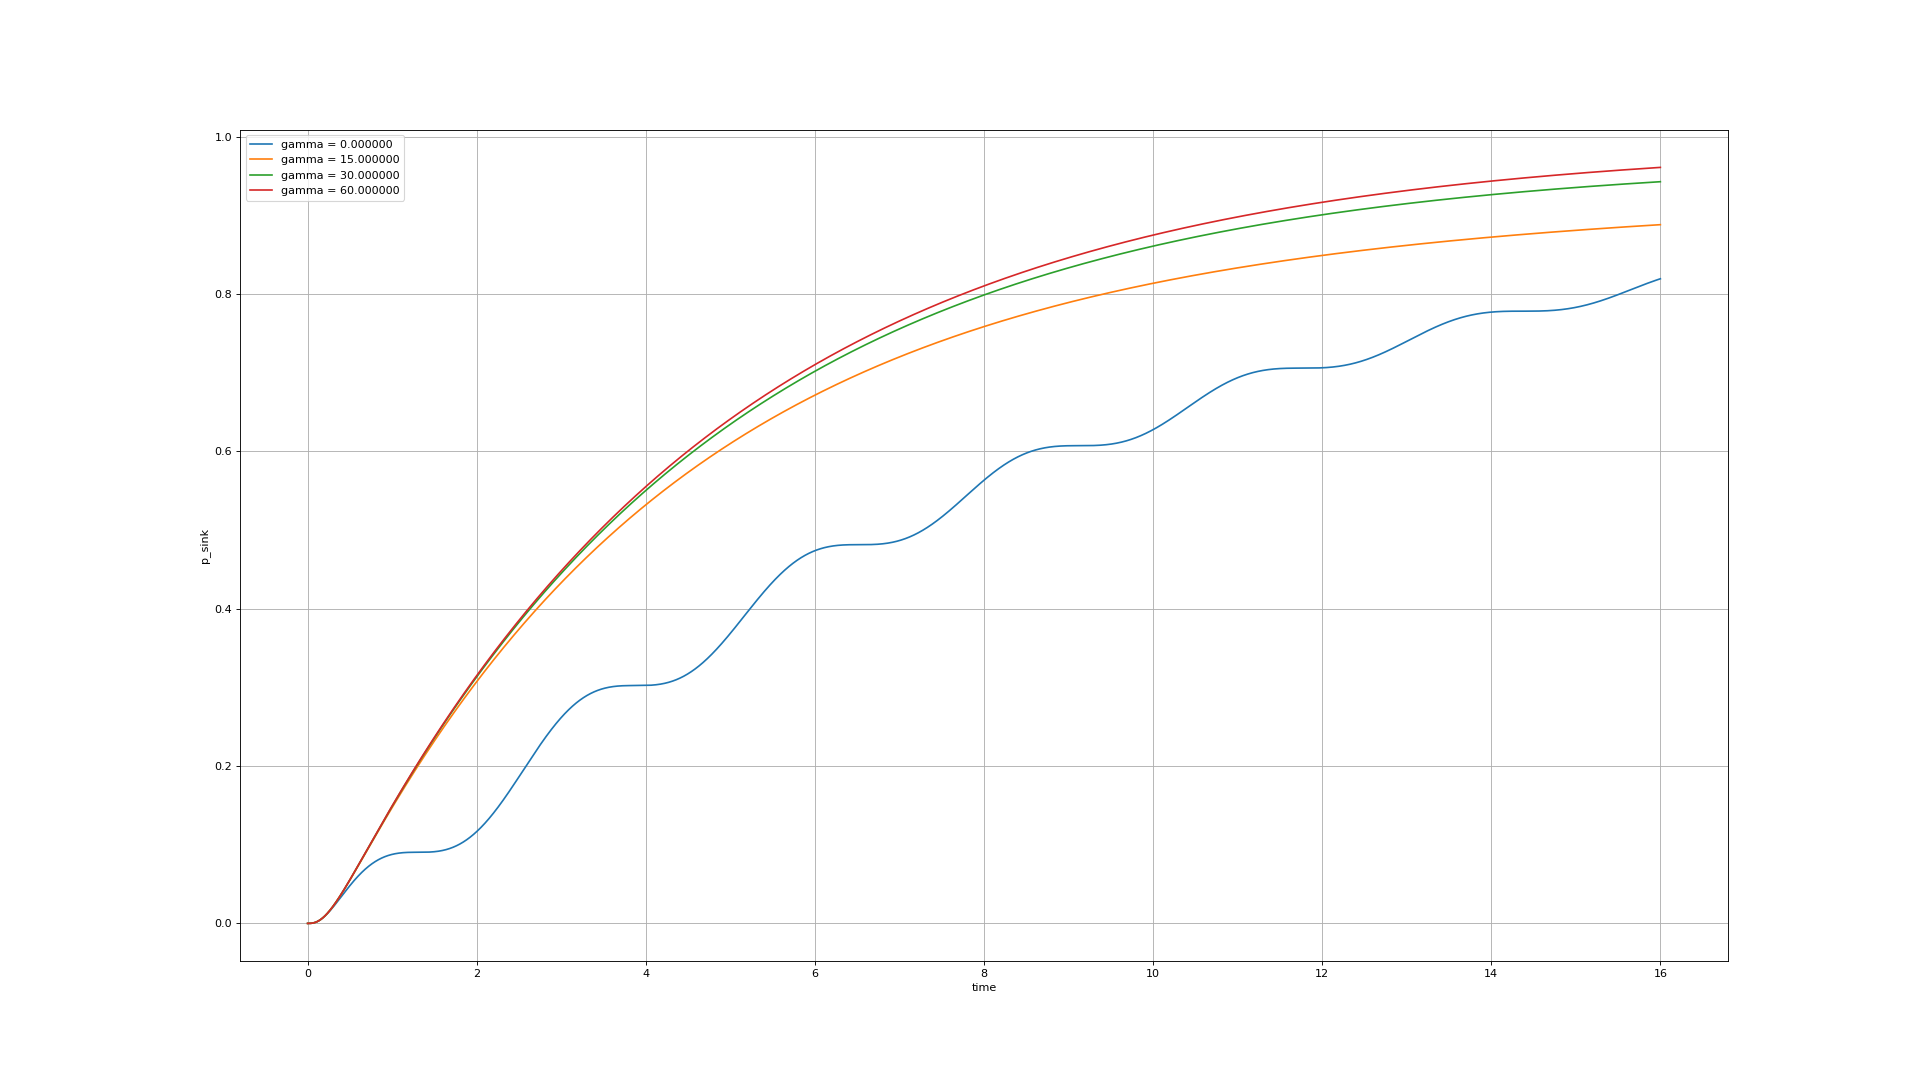
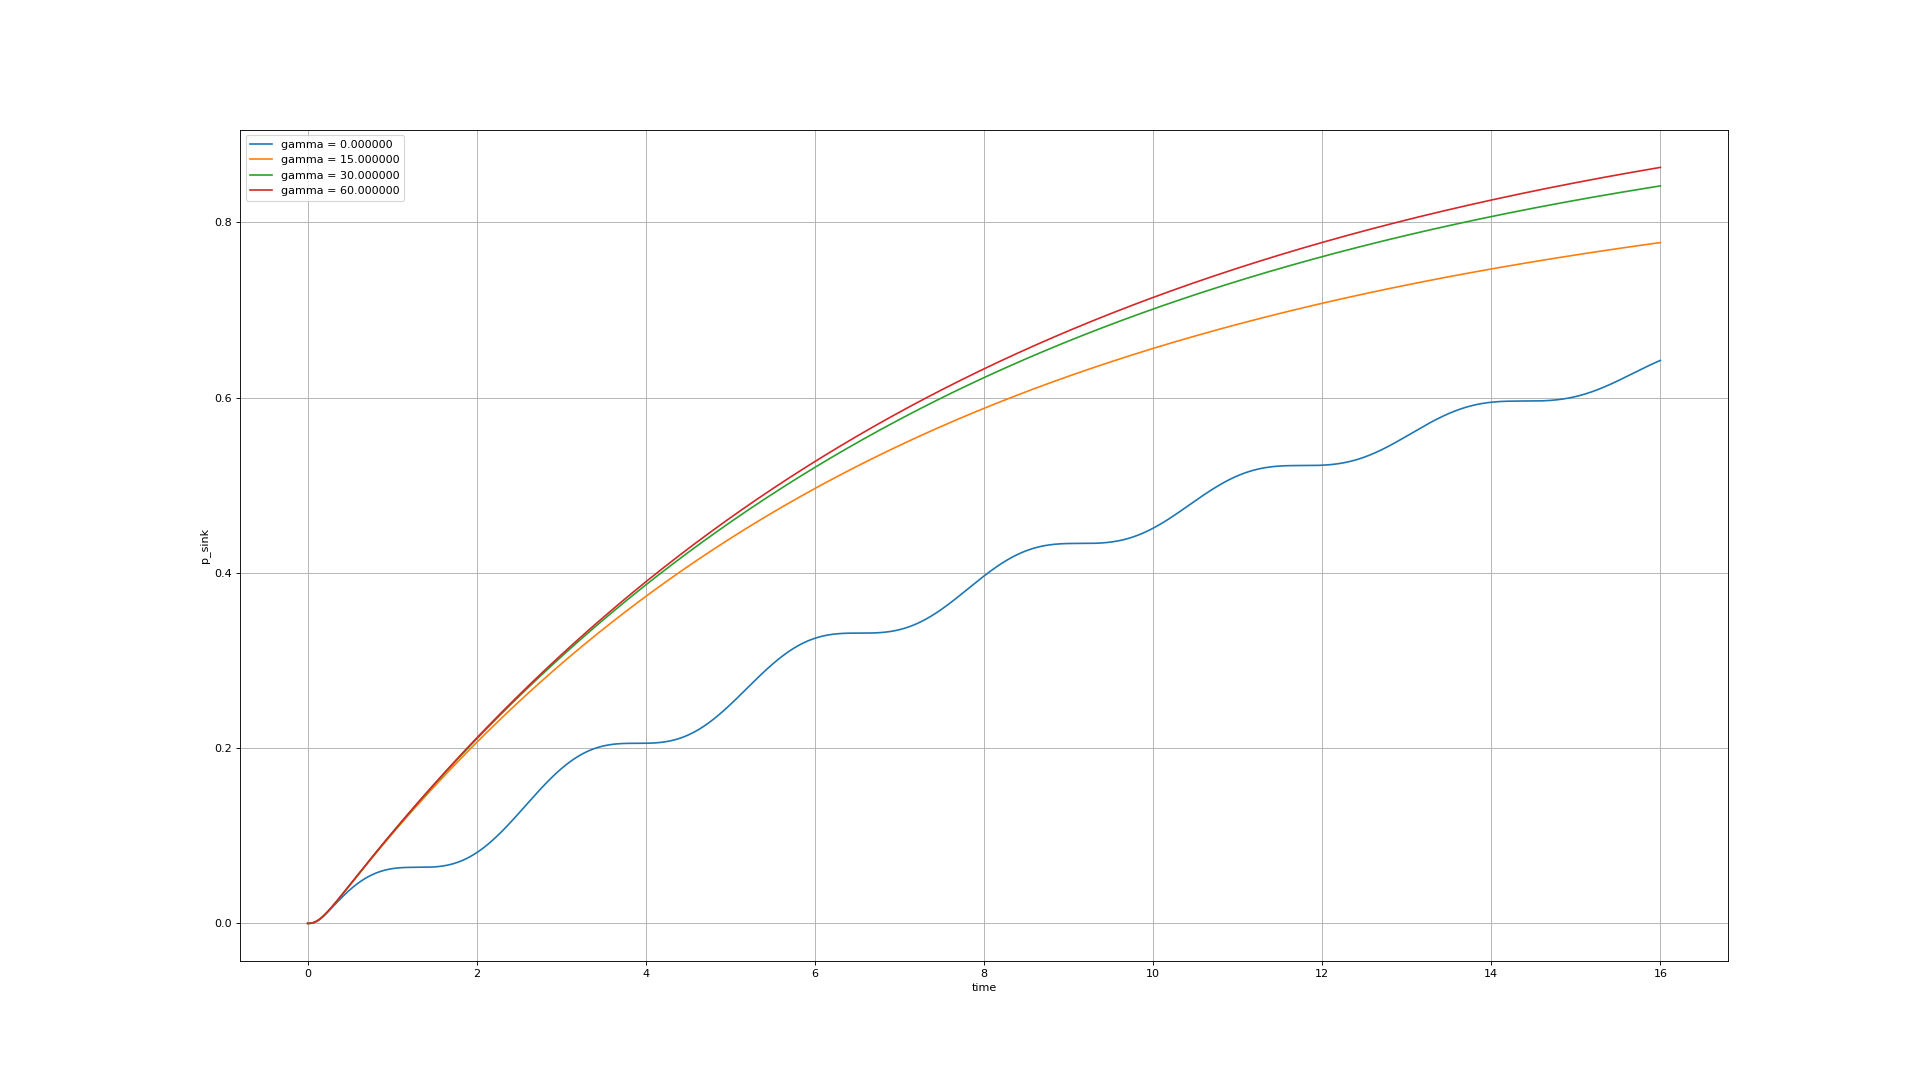
DAT

diff --git a/main/polyphony_of_cavities/polyphony_of_cavities.cpp b/main/polyphony_of_cavities/polyphony_of_cavities.cpp
@@ -13,12 +13,16 @@ int main(int argc, char** argv) {
     QConfig::instance().set_width(30);
     //QConfig::instance().set_g(0.005);
 
+    /*
     size_t grid_size = 4;
     size_t atoms_num = 2;
     int second_pol = 3;
     std::vector<size_t> grid_config(grid_size, 0);
     grid_config[0] = atoms_num;
     grid_config[second_pol] = atoms_num;
+    */
+
+    std::vector<size_t> grid_config = {1, 1, 1};
 
     /*
     for (size_t i = 0; i < grid_size; i++) {
@@ -30,11 +34,11 @@ int main(int argc, char** argv) {
     }
     */
     State grid(grid_config);
-    grid.reshape(2, 2, 1);
-    grid.set_waveguide(0.0025/std::sqrt(2), 1);
+    //grid.reshape(2, 2, 1);
+    grid.set_waveguide(0.0005, 1);
     //grid.set_waveguide(0, 1);
     grid.set_qubit(0, 0, 1);
-    grid.set_qubit(0, 1, 1);
+    //grid.set_qubit(0, 1, 1);
     //grid.set_qubit(0, 1, 1);
     //grid.set_qubit(0, 2, 0);
     //grid.set_n(2);
@@ -64,11 +68,14 @@ int main(int argc, char** argv) {
 
     std::vector<COMPLEX> init_state(H.size(), 0);
     //std::vector<COMPLEX> target_state(H.size(), 0);
-    init_state[grid.get_index(H.get_basis())] = COMPLEX(1, 0);
+    init_state[grid.get_index(H.get_basis())] = COMPLEX(1, 0) / std::sqrt(2);
+    grid.set_qubit(0, 0, 0);
+    grid.set_qubit(2, 0, 1);
+    init_state[grid.get_index(H.get_basis())] = COMPLEX(-1, 0) / std::sqrt(2);
     //size_t target_index = grid_copy.get_index(H.get_basis());
     //target_state[grid_copy.get_index(H.get_basis())] = COMPLEX(1, 0);
 
-    auto time_vec = linspace(0, 32000, 32000);
+    auto time_vec = linspace(0, 600000, 600000);
 
     auto probs = Evolution::schrodinger(init_state, H, time_vec);
     
@@ -102,6 +109,7 @@ int main(int argc, char** argv) {
     }
     */
 
+   /*
     if (rank == 0) {
         matplotlib::make_figure(1920, 1080);
     }
@@ -112,7 +120,7 @@ int main(int argc, char** argv) {
         matplotlib::grid();
         matplotlib::show(false);
     }
-
+    */
     if (rank == 0) {
         matplotlib::make_figure(1920, 1080);
     }
@@ -120,6 +128,7 @@ int main(int argc, char** argv) {
     //matplotlib::probs_to_plot(probs, time_vec, H.get_basis());
     matplotlib::probs_in_cavity_to_plot(probs, time_vec, H.get_basis(), 0);
     if (rank == 0) {
+        matplotlib::title("CAVITY_0");
         matplotlib::grid();
         matplotlib::show(false);
     }
@@ -129,8 +138,20 @@ int main(int argc, char** argv) {
     }
 
     //matplotlib::probs_to_plot(probs, time_vec, H.get_basis());
-    matplotlib::probs_in_cavity_to_plot(probs, time_vec, H.get_basis(), second_pol);
+    matplotlib::probs_in_cavity_to_plot(probs, time_vec, H.get_basis(), 2);
     if (rank == 0) {
+        matplotlib::title("CAVITY_2");
+        matplotlib::grid();
+        matplotlib::show(false);
+    }
+
+    if (rank == 0) {
+        matplotlib::make_figure(1920, 1080);
+    }
+
+    matplotlib::probs_in_cavity_to_plot(probs, time_vec, H.get_basis(), 1);
+    if (rank == 0) {
+        matplotlib::title("CAVITY_1");
         matplotlib::grid();
         matplotlib::show();
     }

diff --git a/examples/DAT.cpp b/examples/DAT.cpp
@@ -21,7 +21,7 @@ int main(int argc, char** argv) {
     State grid(grid_config);
     grid.set_n(1, 0);
     grid.set_waveguide(0, 1, 0.8, 1);
-    grid.set_leak_for_cavity(1, 12);
+    grid.set_leak_for_cavity(1, 20);
 
     int ctxt;
     mpi::init_grid(ctxt);
